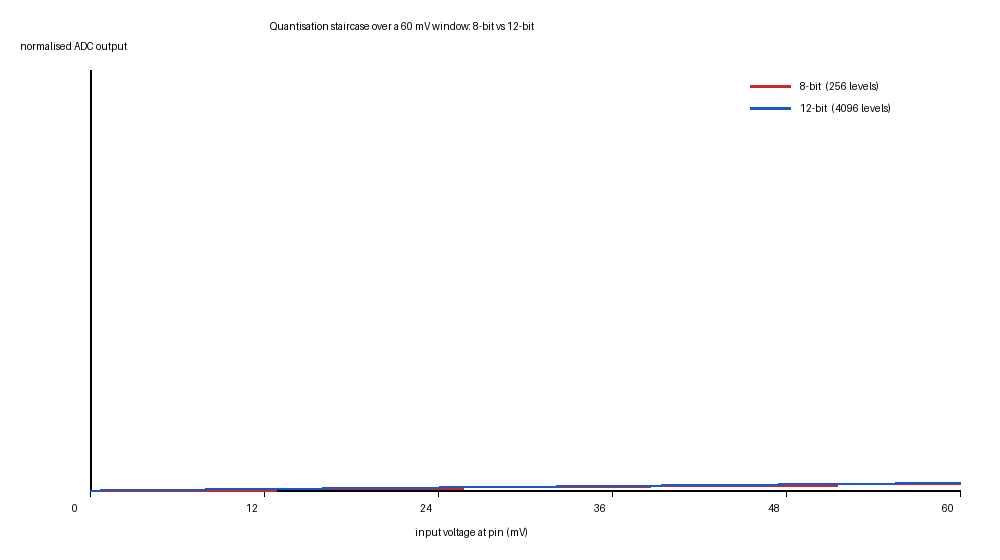
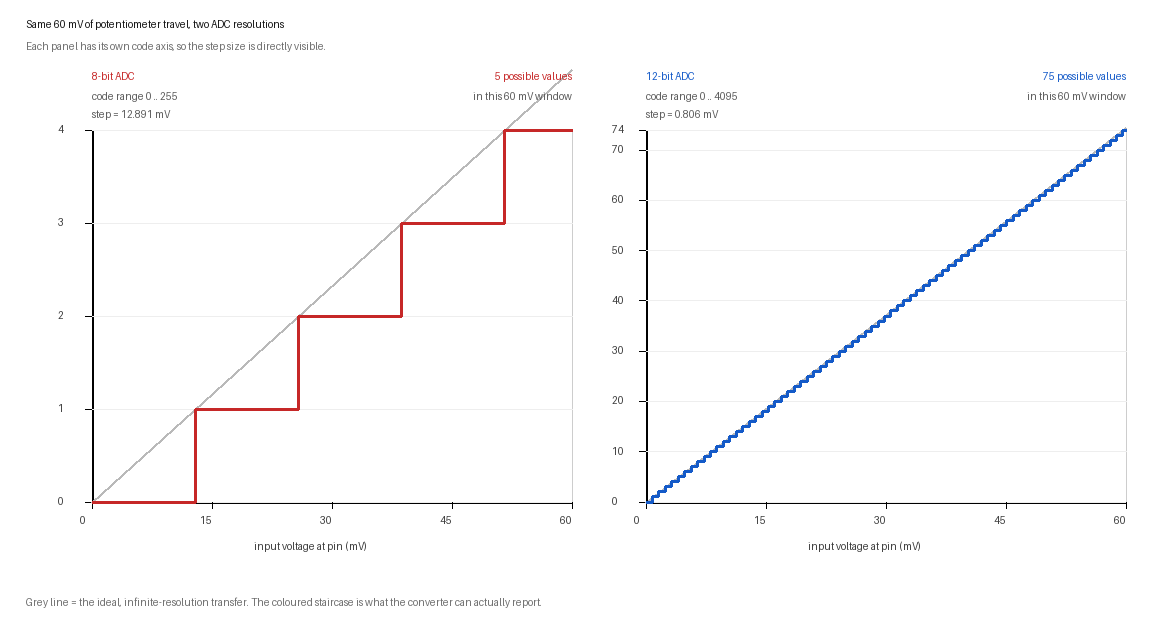
Redraw the ADC quantisation figure with a per-panel code axis
The single normalised axis made both curves rise under 2% of the plot
height over a 60 mV window, so they looked flat and the step size was
invisible. Two panels, each autoscaled to its own code range: 5 values
for 8-bit, 75 for 12-bit, verified by counting plateaus in the render.

diff --git a/tools/adc_math.py b/tools/adc_math.py
@@ -2,7 +2,11 @@
 
 Produces:
   - a markdown table (stdout)
-  - figures/adc_staircase.png  (8-bit vs 12-bit transfer staircase)
+  - figures/adc_staircase.png, a two-panel comparison
+
+The figure deliberately gives each panel its OWN y-axis. Plotting a 0..255 code
+range and a 0..4095 code range against a shared normalised axis makes both
+curves look flat over a narrow voltage window, which hides the whole point.
 """
 import os
 
@@ -11,6 +15,7 @@ from PIL import Image, ImageDraw
 VREF = 3.3          # nominal ESP32 ADC full scale (ideal / simulator assumption)
 VREF_DOC = 3.1      # upper end of the DOCUMENTED measurable range with ADC_11db
 POT_DEG = 300.0     # mechanical rotation of a standard 10k panel pot
+WINDOW_V = 0.060    # 60 mV of pot travel shown in the figure
 
 BITS = [8, 10, 12]
 
@@ -47,61 +52,118 @@ print(f"Documented ADC_11db measurable window: 150 .. 3100 mV "
       f"(span {VREF_DOC * 1000 - 150:.0f} mV = {(VREF_DOC * 1000 - 150) / (VREF_DOC * 1000) * 100:.1f}% of the 3.1 V span)")
 print(f"Sub-150 mV dead zone as a fraction of a 12-bit scale: {150 / (VREF_DOC * 1000 / 4096):.0f} codes")
 
-# --- figure: staircase, 8-bit vs 12-bit, first 0.4 V of the range -----------
-W, H = 1000, 560
-MARGIN_L, MARGIN_R, MARGIN_T, MARGIN_B = 90, 40, 70, 70
-PLOT_W = W - MARGIN_L - MARGIN_R
+# ---------------------------------------------------------------------------
+# figure: two panels, one per resolution, each with its own code axis
+# ---------------------------------------------------------------------------
+PANELS = [8, 12]
+COLORS = {8: (198, 40, 40), 12: (20, 90, 200)}
+
+W, H = 1160, 620
+MARGIN_L, MARGIN_R, MARGIN_T, MARGIN_B = 92, 34, 130, 118
+GAP = 74
+PANEL_W = (W - MARGIN_L - MARGIN_R - GAP) / 2
 PLOT_H = H - MARGIN_T - MARGIN_B
-VMAX = 0.06  # volts shown - a narrow window so quantisation is visible
 
 img = Image.new("RGB", (W, H), "white")
 d = ImageDraw.Draw(img)
 
-
-def x_of(v):
-    return MARGIN_L + (v / VMAX) * PLOT_W
-
-
-def y_of(code, levels):
-    # normalised output, so 8-bit and 12-bit share one axis
-    return MARGIN_T + PLOT_H - (code / (levels - 1)) * PLOT_H
+# per-panel stats, computed so the captions cannot drift from the drawing
+stats = {}
+for b in PANELS:
+    step = by_bits[b]["step_v"]
+    n_codes = int(WINDOW_V / step) + 1     # codes 0 .. floor(window/step)
+    stats[b] = {"step": step, "n_codes": n_codes, "max_code": n_codes - 1}
 
 
-# axes
-d.line([(MARGIN_L, MARGIN_T), (MARGIN_L, MARGIN_T + PLOT_H)], fill="black", width=2)
-d.line([(MARGIN_L, MARGIN_T + PLOT_H), (MARGIN_L + PLOT_W, MARGIN_T + PLOT_H)], fill="black", width=2)
+def panel_box(i):
+    x0 = MARGIN_L + i * (PANEL_W + GAP)
+    return x0, MARGIN_T, x0 + PANEL_W, MARGIN_T + PLOT_H
 
-# gridlines / ticks
-for i in range(6):
-    v = VMAX * i / 5
-    x = x_of(v)
-    d.line([(x, MARGIN_T + PLOT_H), (x, MARGIN_T + PLOT_H + 6)], fill="black", width=1)
-    d.text((x - 18, MARGIN_T + PLOT_H + 12), f"{v * 1000:.0f}", fill="black")
 
-d.text((MARGIN_L + PLOT_W / 2 - 110, H - 34), "input voltage at pin (mV)", fill="black")
-d.text((MARGIN_L - 70, MARGIN_T - 30), "normalised ADC output", fill="black")
-d.text((W / 2 - 230, 20), "Quantisation staircase over a 60 mV window: 8-bit vs 12-bit", fill="black")
+def nice_ticks(max_code):
+    """Return a readable tick step for a 0..max_code axis."""
+    for t in (1, 2, 5, 10, 20, 25, 50, 100):
+        if max_code / t <= 8:
+            return t
+    return 100
 
-colors = {8: (200, 40, 40), 12: (20, 90, 200)}
-for b in (8, 12):
-    r = by_bits[b]
-    levels = r["levels"]
-    step = r["step_v"]
+
+d.text((26, 18), "Same 60 mV of potentiometer travel, two ADC resolutions", fill=(17, 17, 17))
+d.text((26, 40), "Each panel has its own code axis, so the step size is directly visible.",
+       fill=(110, 110, 110))
+
+for i, b in enumerate(PANELS):
+    x0, y0, x1, y1 = panel_box(i)
+    step = stats[b]["step"]
+    max_code = stats[b]["max_code"]
+    color = COLORS[b]
+
+    def X(v):
+        return x0 + (v / WINDOW_V) * (x1 - x0)
+
+    def Y(code):
+        return y1 - (code / max_code) * (y1 - y0)
+
+    # plot frame
+    d.rectangle([x0, y0, x1, y1], outline=(205, 205, 205))
+    d.line([(x0, y0), (x0, y1)], fill="black", width=2)
+    d.line([(x0, y1), (x1, y1)], fill="black", width=2)
+
+    # horizontal gridlines at each code level (8-bit) or every tick (12-bit)
+    tick = nice_ticks(max_code)
+    level = 0
+    while level <= max_code:
+        yy = Y(level)
+        if level in (0, max_code) or level % tick == 0:
+            d.line([(x0, yy), (x0 - 7, yy)], fill="black", width=1)
+            d.text((x0 - 34, yy - 7), str(level), fill=(60, 60, 60))
+            d.line([(x0, yy), (x1, yy)], fill=(238, 238, 238))
+        level += 1
+
+    # x ticks in mV
+    for k in range(5):
+        v = WINDOW_V * k / 4
+        xx = X(v)
+        d.line([(xx, y1), (xx, y1 + 6)], fill="black", width=1)
+        label = f"{v * 1000:.0f}"
+        d.text((xx - 12, y1 + 12), label, fill=(60, 60, 60))
+    d.text(((x0 + x1) / 2 - 78, y1 + 38), "input voltage at pin (mV)", fill=(60, 60, 60))
+
+    # ideal (infinite resolution) ramp, for reference
+    d.line([(X(0), Y(0)), (X(WINDOW_V), Y(WINDOW_V / step))], fill=(185, 185, 185), width=2)
+
+    # the quantised staircase the ADC actually produces
     pts = []
-    n_steps = int(VMAX / step) + 1
-    for k in range(n_steps):
-        v0 = k * step
-        v1 = min((k + 1) * step, VMAX)
-        pts.append((x_of(v0), y_of(k, levels)))
-        pts.append((x_of(v1), y_of(k, levels)))
-    d.line(pts, fill=colors[b], width=2)
+    for code in range(0, max_code + 2):
+        v0 = code * step
+        v1 = min((code + 1) * step, WINDOW_V)
+        if v0 > WINDOW_V:
+            break
+        pts.append((X(v0), Y(code)))
+        pts.append((X(v1), Y(code)))
+    d.line(pts, fill=color, width=3)
 
-# legend
-for i, b in enumerate((8, 12)):
-    yy = MARGIN_T + 16 + i * 22
-    d.line([(MARGIN_L + PLOT_W - 210, yy), (MARGIN_L + PLOT_W - 170, yy)], fill=colors[b], width=3)
-    d.text((MARGIN_L + PLOT_W - 160, yy - 6), f"{b}-bit  ({by_bits[b]['levels']} levels)", fill="black")
+    # captions (right-aligned inside the panel so long text cannot overflow)
+    d.text((x0, y0 - 60), f"{b}-bit ADC", fill=color)
+    d.text((x0, y0 - 40), f"code range 0 .. {2 ** b - 1}", fill=(90, 90, 90))
+    d.text((x0, y0 - 22), f"step = {step * 1000:.3f} mV", fill=(90, 90, 90))
+
+    line1 = f"{stats[b]['n_codes']} possible values"
+    line2 = "in this 60 mV window"
+    d.text((x1 - d.textlength(line1), y0 - 60), line1, fill=color)
+    d.text((x1 - d.textlength(line2), y0 - 40), line2, fill=(90, 90, 90))
+
+# shared footnote
+d.text((26, H - 24),
+       "Grey line = the ideal, infinite-resolution transfer. The coloured staircase is what the converter can actually report.",
+       fill=(110, 110, 110))
 
 os.makedirs("pre-study/figures", exist_ok=True)
-img.save(os.path.join("pre-study", "figures", "adc_staircase.png"))
-print("\nwrote pre-study/figures/adc_staircase.png")
+out = os.path.join("pre-study", "figures", "adc_staircase.png")
+img.save(out)
+print()
+print("figure panels:")
+for b in PANELS:
+    print(f"  {b}-bit: {stats[b]['n_codes']} distinct codes over {WINDOW_V * 1000:.0f} mV "
+          f"(codes 0..{stats[b]['max_code']}), step {stats[b]['step'] * 1000:.3f} mV")
+print(f"\nwrote {out}")

diff --git a/tools/wokwi-capture/verify_figure.py b/tools/wokwi-capture/verify_figure.py
@@ -1,0 +1,80 @@
+"""Verify the regenerated figure draws the staircase it claims.
+
+Counts rows that contain a horizontal run of the coloured line. Each plateau of
+the staircase produces one band of such rows, so the number of clusters should
+equal the number of distinct codes the panel advertises (5 and 75).
+"""
+import os
+
+from PIL import Image
+
+FIG = r"C:\dd\Sensorik+Aktorik\pre-study\figures\adc_staircase.png"
+
+W, H = 1160, 620
+MARGIN_L, MARGIN_R, MARGIN_T, MARGIN_B = 92, 34, 130, 118
+GAP = 74
+PANEL_W = (W - MARGIN_L - MARGIN_R - GAP) / 2
+PLOT_H = H - MARGIN_T - MARGIN_B
+Y0, Y1 = MARGIN_T, MARGIN_T + PLOT_H
+MIN_RUN = 5
+
+PANELS = [
+    ("8-bit", 5, (198, 40, 40), MARGIN_L),
+    ("12-bit", 75, (20, 90, 200), MARGIN_L + PANEL_W + GAP),
+]
+
+
+def near(p, c, tol=60):
+    return abs(p[0] - c[0]) < tol and abs(p[1] - c[1]) < tol and abs(p[2] - c[2]) < tol
+
+
+im = Image.open(FIG).convert("RGB")
+pix = im.load()
+print("image size:", im.size, "expected:", (W, H))
+assert im.size == (W, H), "geometry drifted from adc_math.py"
+
+ok = True
+for name, expected, colour, x0f in PANELS:
+    x0, x1 = int(x0f), int(x0f + PANEL_W)
+    plateau_rows = []
+    for y in range(Y0 - 4, Y1 + 5):
+        run = best = 0
+        for x in range(x0 - 2, x1 + 3):
+            if near(pix[x, y], colour):
+                run += 1
+                best = max(best, run)
+            else:
+                run = 0
+        if best >= MIN_RUN:
+            plateau_rows.append(y)
+
+    clusters = []
+    for y in plateau_rows:
+        if clusters and y - clusters[-1][-1] <= 1:
+            clusters[-1].append(y)
+        else:
+            clusters.append([y])
+
+    span = (max(plateau_rows) - min(plateau_rows)) if plateau_rows else 0
+    got = len(clusters)
+    flag = "OK  " if got == expected else "CHECK"
+    if got != expected:
+        ok = False
+    print(f"{flag} {name:7s} plateaus = {got:3d} (advertised {expected:3d})  "
+          f"rows={len(plateau_rows):3d}  vertical span={span:3d}px of {PLOT_H}")
+
+# nothing should be clipped at the canvas edge
+edge = []
+for x in range(W):
+    for y in (0, 1, H - 2, H - 1):
+        if pix[x, y] != (255, 255, 255):
+            edge.append((x, y))
+for y in range(H):
+    for x in (0, 1, W - 2, W - 1):
+        if pix[x, y] != (255, 255, 255):
+            edge.append((x, y))
+print(f"\nnon-white pixels touching the canvas border: {len(edge)} (want 0)")
+if edge:
+    ok = False
+
+print("RESULT:", "figure matches its claims" if ok else "review needed")

diff --git a/pre-study/README.md b/pre-study/README.md
@@ -184,11 +184,15 @@ discrete steps. These figures are arithmetic on `full-scale ÷ 2ⁿ`:
 | 10-bit | 0 .. 1023 | **1024** | 3.223 mV | 3.027 mV | 0.293° |
 | 12-bit | 0 .. 4095 | **4096** | 0.806 mV | 0.757 mV | 0.073° |
 
-![Quantisation staircase over a 60 mV window, 8-bit versus 12-bit](figures/adc_staircase.png)
+![Two panels comparing an 8-bit and a 12-bit ADC over the same 60 mV window](figures/adc_staircase.png)
 
-*The same 60 mV of pot rotation seen by an 8-bit and a 12-bit converter. The 8-bit output can
-only take five values in this window; the 12-bit output manages about seventy-five. That picture
-is basically the whole idea of resolution.*
+*The same 60 mV of pot rotation, seen by both converters. I gave each panel its own code axis
+on purpose: plotted against a shared normalised axis both curves rise by under 2 % of the plot
+height and look perfectly flat, which hides the entire point. Side by side with their own axes,
+the 8-bit output can only take 5 values across this window (12.891 mV steps) while the 12-bit
+output takes 75 (0.806 mV steps). The grey line is the ideal transfer, so the gap between it and
+the coloured staircase is the quantisation error. This picture is basically the whole idea of
+resolution.*
 
 **(b) The code range really does change with the resolution setting.**
 
